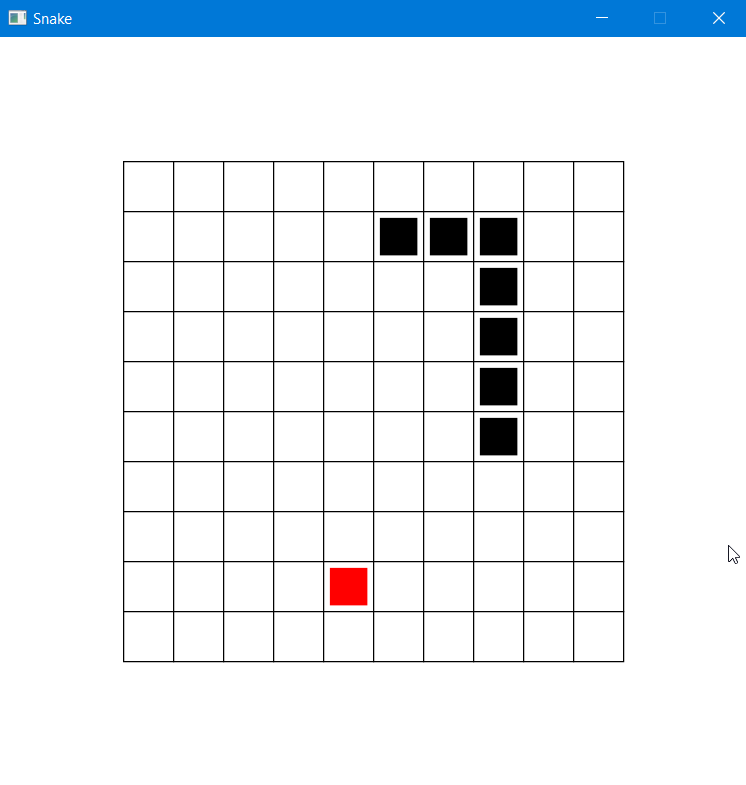
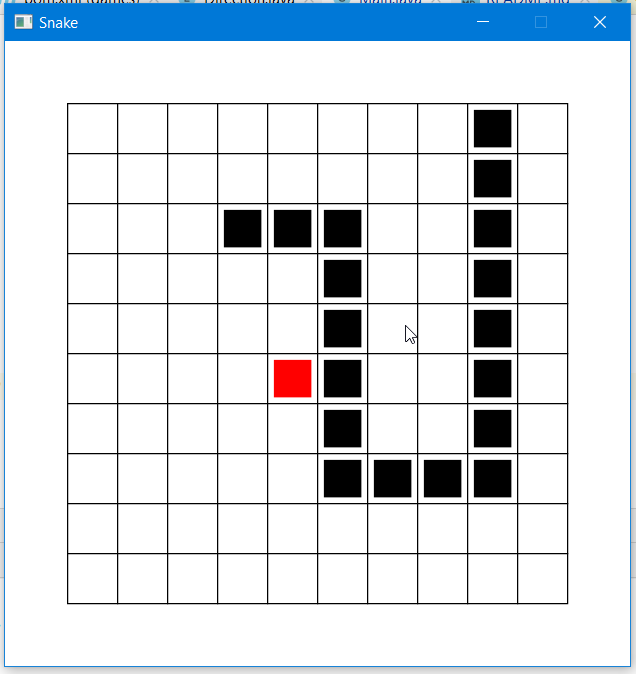
Add Snake game

Changed region(s): [[0.1494, 0.1558, 0.8962, 0.9036], [0.0, 0.0, 1.0, 1.0], [0.0896, 0.1558, 0.1195, 0.9036]]

diff --git a/snake/src/main/java/ru/job4j/snake/Main.java b/snake/src/main/java/ru/job4j/snake/Main.java
@@ -70,7 +70,7 @@ public class Main extends Application {
         });
         var grid = buildGrid();
         border.setCenter(grid);
-        stage.setScene(new Scene(border, 600, 600));
+        stage.setScene(new Scene(border, 500, 500));
         stage.setTitle(JOB4J);
         stage.setResizable(false);
         drawSnake(grid);
@@ -87,7 +87,7 @@ public class Main extends Application {
                                 }
                                 redrawSnake(grid);
                             });
-                            Thread.sleep(1000);
+                            Thread.sleep(500);
                         }
                     } catch (InterruptedException e) {
                         throw new RuntimeException(e);

diff --git a/README.md b/README.md
@@ -1,17 +1,23 @@
-[![Build Status](https://travis-ci.org/peterarsentev/games_oop_javafx.svg?branch=master)](https://travis-ci.org/peterarsentev/games_oop_javafx)
-
-# games_oop_javafx
 This project demonstrates how to use Java Fx in OOP Style. 
 All examples are popular games. (Snake, Chess, TicTacToe, SeeBattle and etc)
 
-##Snake
+If you have any suggestions about this project, please, creating a new GitHub issue https://github.com/peterarsentev/games_oop_javafx/issues
+
+
+## Snake
 
 ![ScreenShot](images/Snake.png)
 
-##TicTacToe
+## TicTacToe
 
 ![ScreenShot](images/TicTacToe.png)
 
-##Chess
+## Chess
 
 ![ScreenShot](images/Chess.png)
+
+## TODO
+
+- SeaBattle
+- PackMan
+- Tetris
